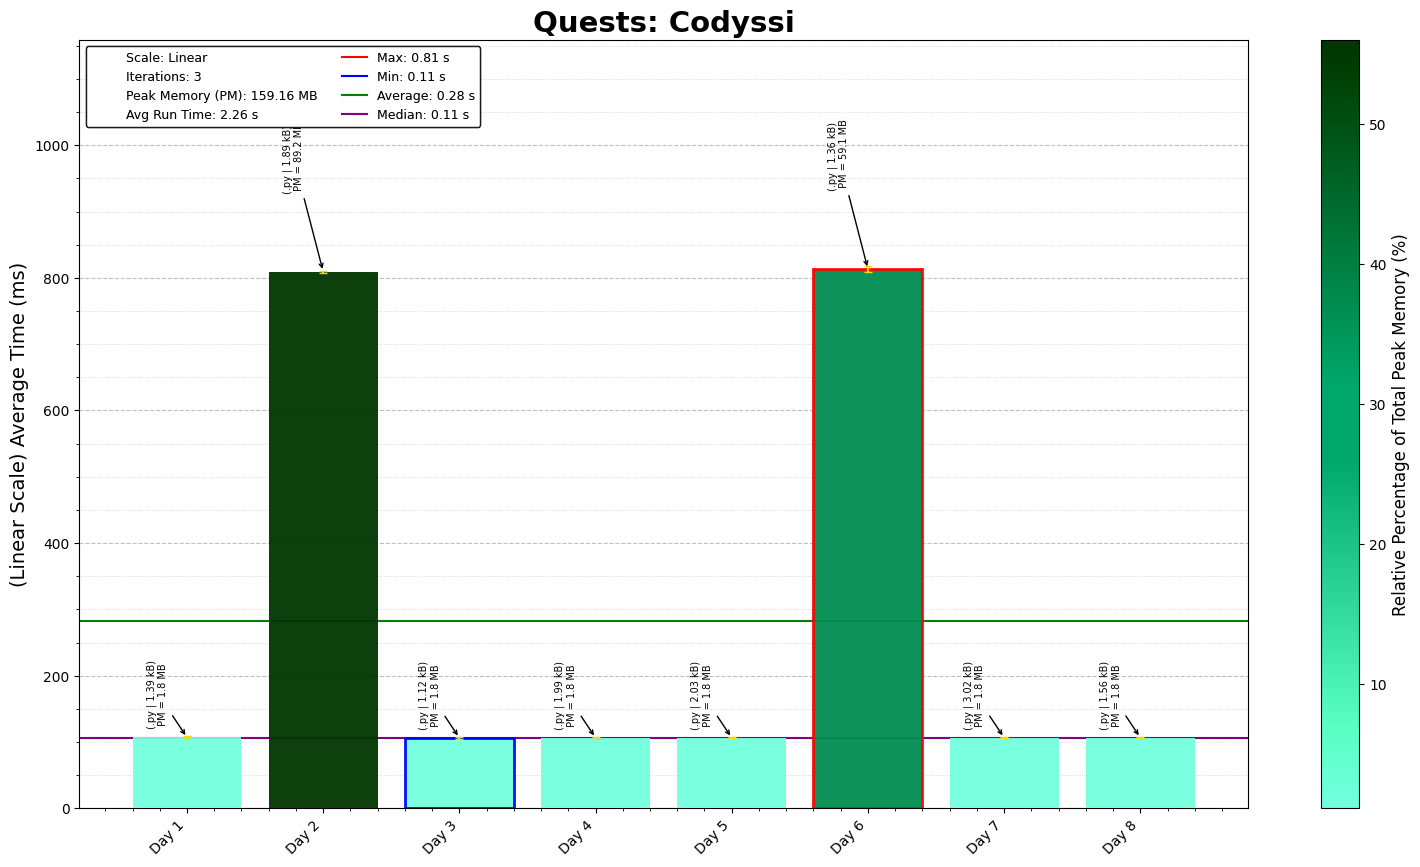
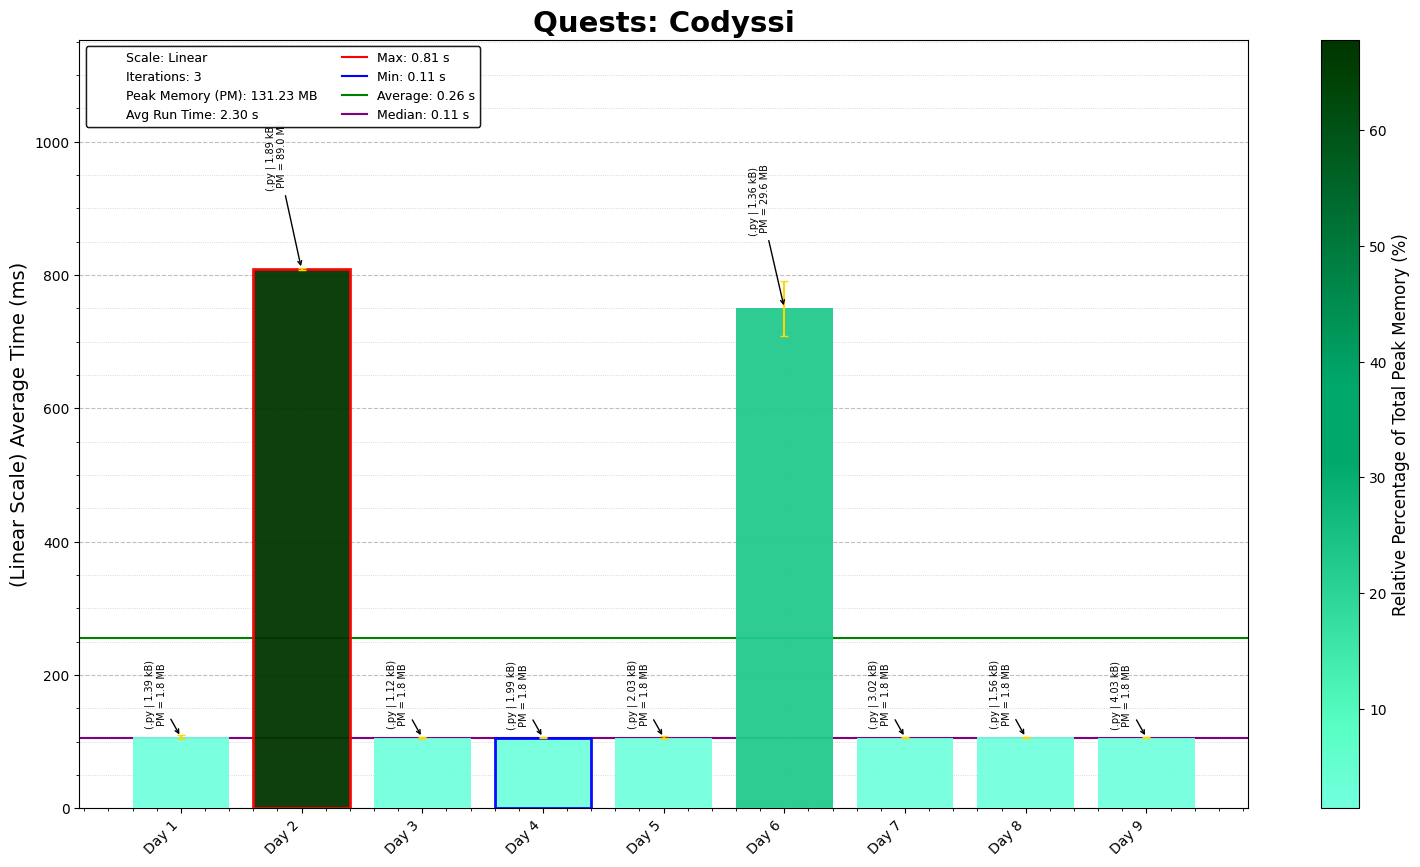
Codyssi Day 9 P1/P2 and P3 start

diff --git a/Codyssi/2025/09/CodyssiDay09.py b/Codyssi/2025/09/CodyssiDay09.py
@@ -1,0 +1,96 @@
+"""Codyssi Puzzles - Problem 9
+Solution Started: Apr 11, 2025
+Puzzle Link: https://www.codyssi.com/view_problem_13?
+Solution by: Abbas Moosajee
+Brief: [Windy Bargain]
+"""
+
+#!/usr/bin/env python3
+
+import os, re, copy
+
+# Load the input data from the specified file path
+D09_file = "Day09_input.txt"
+D09_file_path = os.path.join(os.path.dirname(os.path.abspath(__file__)), D09_file)
+
+# Read and sort input data into a grid
+with open(D09_file_path) as file:
+    input_data = file.read().strip().split('\n\n')
+    acc_dict = {name: int(val) for line in input_data[0].splitlines() for name, val in [line.split(" HAS ", 1)]}
+    transac_list = [(line.split(' ')[1],line.split(' ')[3], int(line.split(' ')[-1])) for line in input_data[1].splitlines()]
+
+class AccountManager:
+    def __init__(self, acc_dict, transac_list):
+        self.original_acc_dict = acc_dict
+        self.transac_list = transac_list
+
+    def complete_transactions(self, limit: bool = True):
+        """
+        Processes the list of transactions and computes the sum of the top 3 account balances 
+        after all transactions are applied.
+
+        If `limit` is True, a transaction from an account only transfers up to the available balance.\n
+        If `limit` is False, it assumes unlimited.
+
+        Args:
+            limit (bool, optional): If True, restricts transfers to available balance.
+                                    If False, transfers the full amount regardless of balance.
+                                    Defaults to True.
+
+        Returns:
+            int or float: Sum of the top 3 highest balances after processing all transactions.
+        """
+        acc_dict = self.original_acc_dict.copy()
+        for from_acc, to_acc, amt in self.transac_list:
+            available = acc_dict[from_acc]
+            transfer_amt = min(amt, available) if limit else amt
+            acc_dict[from_acc] -= transfer_amt
+            acc_dict[to_acc] += transfer_amt
+        sorted_balances = sorted(acc_dict.values(), reverse=True)
+        return sum(sorted_balances[:3])
+
+    def balance_books(self):
+        acc_dict = self.original_acc_dict.copy()
+        debt_dict = {}
+        og_cash = sum(acc_dict.values())
+        time_created = 0
+        for (from_acc, to_acc, amt) in transac_list:
+            # print(f"{from_acc} -> {to_acc} for {amt}")
+            avail_val = acc_dict[from_acc]
+            time_created += 1
+            if amt > avail_val:
+                acc_dict[from_acc] -= avail_val
+                balance_payable = avail_val
+                debt_dict.setdefault(from_acc, []).append((time_created, to_acc, amt - avail_val))
+            else:
+                acc_dict[from_acc] -= amt
+                balance_payable = amt
+
+            debts_avail = sorted(debt_dict.get(to_acc, []), key=lambda x: x[0])
+            debt_dict[to_acc] = []
+
+            while balance_payable > 0 and debts_avail:
+                debt_time, pay_to, debt_amt = debts_avail.pop(0)
+                if debt_amt > balance_payable:
+                    debt_rem = debt_amt - balance_payable
+                    balance_payable -= debt_rem
+                    debt_dict.setdefault(to_acc, []).append((debt_time, pay_to, debt_rem))
+                    acc_dict[pay_to] += balance_payable
+                else:
+                    acc_dict[pay_to] += debt_amt
+                    balance_payable -= debt_amt
+            acc_dict[to_acc] += balance_payable
+            total_cash = sum(acc_dict.values())
+            debt_owed = sum([debt for line in debt_dict.values() for (_, _, debt) in line])
+            # print(f"{og_cash=} == {total_cash=} {debt_owed=} balance={total_cash-debt_owed}\n")
+        # print(debt_dict)
+        # print(acc_dict)
+        sorted_balances = sorted(acc_dict.values(), reverse=True)
+
+        return sum(sorted_balances[:3])
+
+manager = AccountManager(acc_dict, transac_list)
+print("Part 1:", manager.complete_transactions(False))
+print("Part 2:", manager.complete_transactions(True))
+print("Part 3:", manager.balance_books()) # 2511
+

diff --git a/Codyssi/2025/README_Codyssi2025.md b/Codyssi/2025/README_Codyssi2025.md
@@ -11,4 +11,5 @@
 6. **Problem 6 - Lotus Scramble**: Characterising the data in a file, and calculating its value.
 7. **Problem 7 - Siren Disruption**: Reordering a list of numbers based on a series of instructions
 8. **Problem 8 - Risky Shortcut**: Reduced string based on properties of surrounding characters.
+9. **Problem 9 - Windy Bargain**: Basic accounting, keeping track of cash and balancing the books
 ---
